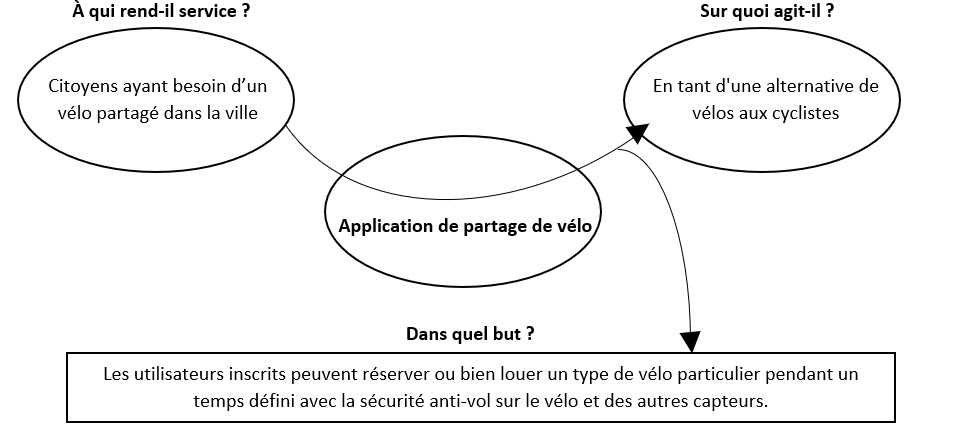
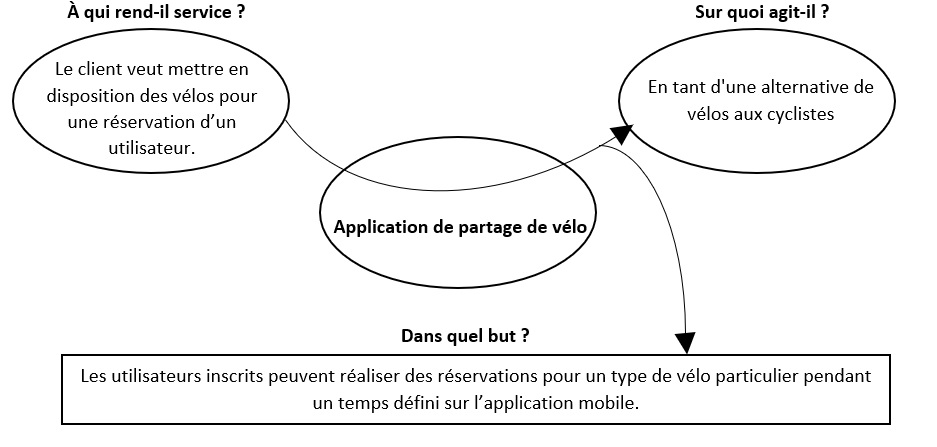
CDC Fonctionnel V3.0

diff --git a/cdc_fonctionnel.html b/cdc_fonctionnel.html
@@ -84,25 +84,19 @@
 			</div>
 			<ul class="list-group list-group-flush">
 				<li class="list-group-item">
-					<p>L’objectif de ce projet concerne au besoin du client, il cherche un système de partage de vélo,
-						dans lequel les utilisateurs inscrits peuvent réserver ou bien louer un type de vélo
-						particulier pendant un temps défini, ce temps doit être souligner sur l'application mobile de
-						l'utilisateur.</p>
-					<p> Il convient souligner que l’application permettra aux utilisateurs visualiser les
-						points d’accès de vélo disponibles dans la ville ainsi que les différents vélos à louer. De la
-						même
-						manière l’application disposera un système de sécurité pour le vélo, c'est-à-dire un système
-						anti-vol et enfin, des alerte en cas de
-						chutes lorsque le vélo est loué par un utilisateur, cette information sera stockée sur
-						l'application.</p>
-					<p>Malgré, à ce moment il n’y a pas dans la ville de Saint-Dié un système concret qui fournit la
-						besoin entièrement du
-						client et même dans les environs
-						pour remplir au besoin. Si bien, il existe actuellement quelques applications pour le
-						partage de vélos qui peuvent remplir la problèmatique, mais ils sont disponibles surtout dans
-						les grandes villes,
-						et qui seront détaillées au point suivant. Pour telle raison, une application mobile/ web seront
-						développés, capables de résoudre le problème.</p>
+					<p>L’objectif de ce projet concerne au besoin du client. Il veut mettre en disposition différentes
+						vélos sur un système capable de gérer une réservation. Les réservations seront réalisées pour
+						les utilisateurs inscrits sur l’application mobile, ils peuvent indiquer quel type de vélo et la
+						durée d'utilisation. Ce temps doit être souligner sur l'application mobile pour l'utilisateur.
+					</p>
+					<p> Il convient souligner que l’application permettra aux utilisateurs visualiser les points d’accès
+						de vélo disponibles dans la ville ainsi que les différents vélos à réserver. De la même manière
+						l’application disposera un système de sécurité pour le vélo, c'est-à-dire un système anti-vol.
+					</p>
+					<p>À ce moment, il existe plusieurs options pour réserver un vélo, mais ils se trouvent dans les
+						grandes villes métropolitaines. Dans la ville de Saint-Dié-des-Vosges, il y a seulement un
+						service pour le partage de vélo, mais il n’est pas disponible tout le temps. Pour telle raison,
+						une application mobile sera développée afin de résoudre le besoin de notre client. </p>
 				</li>
 			</ul>
 		</div>
@@ -123,14 +117,14 @@
 						et les
 						faiblesses de chacune. À ce jour, il existe certaines applications de partage de vélo, on
 						trouvera
-						ci-dessous quelques-unes avec une description détaillée avec leurs fonctionnements respectifs :
+						ci-dessous quelques-unes avec une description détaillée et fonctionnements respectifs :
 					</p>
 				</li>
 			</ul>
 		</div>
 		<br>
 		<!-- Applications pour l'étude concurrentielle  -->
-		<table class="table-responsive" style="text-align: center;">
+		<table class="table table-responsive table-striped" style="text-align: center;">
 			<thead class="bg-info text-white">
 				<tr>
 					<th scope="col">Application</th>
@@ -159,8 +153,8 @@
 					</td>
 					<td>• Les villes pionnières qui accueillent Match my Bike sont 7 (Berne, Bienne, Fribourg,
 						Thoune,
-						Lausanne, Genève et Yverdon). Donc, l’application seulement sert dans ces villes. <br>
-						• Il ne comprend que la partie sécurité (anti-vol) grâce à la localisation du vélo.
+						Lausanne, Genève et Yverdon). Donc, l’application seulement sert dans ces villes de la Suisse.
+						<br>
 					</td>
 					<td>Abonnement: 60 euros pour 12 mois.</td>
 				</tr>
@@ -170,14 +164,11 @@
 							src="https://www.velib-metropole.fr/assets/static_files/paris/images/logo_full.png"
 							style="width: 80px; height: 80px;"> </th>
 					<td>• Sur l’application on peut accéder aux vélos mécaniques de couleur verte et des vélos
-						électriques de couleur bleue pour se déplacer d’un point A à un point B.
+						électriques de couleur bleue pour se déplacer d’un point A à un point B.<br>
 						• Pour les usagers moins assidus, des pass 1 ou 7 jours sont mis à leur disposition.
 						• Vélib’ compte aujourd’hui avec 1300 stations et plus de 12 000 vélos en circulation.
 					</td>
-					<td>• L’application a une portée dans la ville de Paris. <br>
-						• Il ne comprend que la partie sécurité (anti-vol) grâce à la localisation du vélo et de la
-						même
-						manière parce que si on va utiliser un vélo il faut avoir la carta avec le code.
+					<td>• C’est une application qui concerne à la capitale française (Paris) et sa petite couronne.<br>
 					</td>
 					<td>• La souscription la plus onéreuse coûte 8,30 euros par mois, et vous donne accès
 						gratuitement à
@@ -220,17 +211,20 @@
 							France)</a><br><br><img
 							src="https://location-greenbike.com/wp-content/uploads/2017/11/logo-greenbike.png"
 							style="width: 85px; height: 50px;"></th>
-					<td>• Elle offre différents vélos, soit par la famille, petits et même des vélos
-						électriques.<br>
-						• L'application propose également un casque à l'utilisateur, un panier et spray
-						anti-crevaison. <br>
+					<td>• C’est une entreprise qui offre différents vélos pour la famille, les petits et même des vélos
+						électriques. <br>
+						• L'application propose louer un casque à 1€ ou bien une assurance de 3€ par jour.<br>
 						• Elle offre différents plans soit par jour, soit pour toute l’année. <br>
 						• Le point plus fort qui a le service: dispose d’une succursale dans la ville de
 						Saint-Dié-des-Vosges <a href="https://goo.gl/maps/BrZDdoS87TtpFVFR7">(Regarder la carte)</a>
 						dans laquelle on peut loeur des vélos à différents prix.
 					</td>
-					<td>• Si bien, le service inclus: Casque, Anti-vol, Spray anti-crevaison et Panier sur demande,
-						mais ils seront disponibles sous réserve de disponibilité.
+					<td>• Il n’est pas possible de faire des réservations pour Saint-Dié-des-Vosges depuis le site
+						web.<br><br>
+						• Elle ne dispose pas d’une application mobile. <br><br>
+						• En l’absence d’une app mobile ou d’un site web pour la succursale à Saint-Dié, les gens
+						doivent soit aller physiquement pour effectuer le processus soit entrer en contact avec leurs
+						réseaux sociaux comme Facebook, ce qui n’est pas pratique.
 					</td>
 					<td>L’application offre différents forfaits et prix en fonction du vélo.<br>
 						• <b><i>Manhattan 28'':</i></b> <br> 2h = <b>6€</b>, 4h = <b>10€</b>, 1 jour =
@@ -247,17 +241,16 @@
 		<ul class="list-group list-group-flush">
 			<li class="list-group-item">
 				<p>Nous pourrions continuer en analysant différentes applications de partage de vélo, mais comme nous
-					pouvons le
-					voir, la plupart des applications n’ont qu’une portée à l’intérieur d’une ville ou de certaines
-					parties
-					des
-					stations, de sorte qu’aucune ne peut satisfaire les besoins de notre client. En outre, ils ne
-					possèdent
-					qu’une partie des caractéristiques demandées par le client : anti-vol, si bien est une chose
-					important
-					mais il manque la partie en cas de chute. L'application la plus proche pour résoudre au besoin du
-					client
-					est Green Bike, disponible dans la ville mais sans complètement le faire.</p>
+					pouvons le voir, la plupart des applications n’ont qu’une portée à l’intérieur d’une ville ou de
+					certaines parties des stations, de sorte qu’aucune ne peut satisfaire les besoins de notre client.
+					Si bien, ils possèdent une caractéristique demandée par le client : anti-vol, mais ce n'est pas
+					possible de faire usage.<br><br>
+					Si bien, ils possèdent une caractéristique demandée par le client : l’anti-vol, mais ce n'est pas
+					possible de faire usage. L'application la plus proche pour résoudre au besoin du client est Green
+					Bike, disponible dans la ville de Saint-Dié, mais sans complètement le faire. La raison évidemment :
+					peu pratique, nous devons aller à l’entreprise pour réserver un vélo parce qu’elle n’a pas une
+					application mobile pour réaliser des réservations.
+				</p>
 			</li>
 		</ul>
 		<hr style="border: solid;">
@@ -310,52 +303,44 @@
 				</tr>
 				<tr>
 					<th scope="row">3</th>
-					<td>Création d'un espace partagé pour un vélo sur l'application.</td>
-					<td>Les utilisateurs qui sont propriétaires d'un vélo, ils pourront l'ajouter dans leur espace
-						partagé, il faut enregistrer le type de vélo, la date de disponibilité et la localisation du
-						vélo.</td>
+					<td>Gestion du profil de l'utilisateur.</td>
+					<td>Les utilisateurs pourront modifier leurs informations personelles sur l'application (nom,
+						prènom, date de naissance, adresse).</td>
 					<td>Élevée.</td>
 				</tr>
 				<tr>
 					<th scope="row">4</th>
-					<td>Gestion de espace partagé de vélo.</td>
-					<td>Les propriétaires peuvent gérer leurs vélos de partage, en modifiant le type de vélo, la date de
-						disponibilité et la localisation de vélo ainsi que l'élimination d'un vélo sur l'application.
+					<td>Réservation d'un vélo.</td>
+					<td>Les utilisateurs pourront demander un vélo disponible sur l'application. Ils devront enregistrer
+						le type de vélo, la durée (date de debut et de fin) et le paiement correspondant.
 					</td>
 					<td>Élevée.</td>
 				</tr>
 				<tr>
 					<th scope="row">5</th>
-					<td>Consultation de vélos partagés.</td>
-					<td>Les propriétaires peuvent consulter leurs vélos partagés, en regardant sur l'application une
-						liste avec le type du vélo, la date de l'utilisation et la localisation.</td>
+					<td>Modification d'une réservation.</td>
+					<td>Le système permettra aux utilisateurs de réaliser des modifications aux informations d'une
+						réservation.</td>
 					<td>Élevée.</td>
 				</tr>
 				<tr>
 					<th scope="row">6</th>
-					<td>Demande de vélo. </td>
-					<td>Les utilisateurs qui cherchent un vélo pourront le demander ou bien annuler la demande, en
-						indiquant le type de vélo, la date de début et de fin de l'utilisation et le point de la
-						localitation du vélo souhaité entre les vélos disponibles.</td>
+					<td>Annulation de vélos demandés.</td>
+					<td>Le système permettra aux utilisateurs de réaliser une annulation d'un vélo réservé précédemment
+						(à condition qu’il soit temps avant du jour).</td>
 					<td>Élevée.</td>
 				</tr>
 				<tr>
 					<th scope="row">7</th>
 					<td>Consultation de vélos demandés.</td>
 					<td>Les utilisateurs peuvent consulter les dernières vélos demandés , en regardant sur l'application
-						une liste avec le type du vélo, la durée de l'utilisation et la localisation. </td>
+						une liste avec le type du vélo et la durée de l'utilisation.</td>
 					<td>Élevée.</td>
 				</tr>
 				<tr>
 					<th scope="row">8</th>
-					<td>Gestion du profil de l'utilisateur.</td>
-					<td>Les utilisateurs pourront modifier leurs informations personelles sur l'application.</td>
-					<td>Élevée.</td>
-				</tr>
-				<tr>
-					<th scope="row">9</th>
-					<td>Affichage des alertes en cas de chute.</td>
-					<td>Les utilisateurs seront alertés en cas de chute du vélo à travers de l'application.</td>
+					<td>Protection d'un anti-vol.</td>
+					<td>Le système permettra d'utiliser le vélo une fois que la verification de la réservation et paiement soient validées.</td>
 					<td>Élevée.</td>
 				</tr>
 			</tbody>
@@ -420,8 +405,8 @@
 						chacune
 						des
 						étapes de l’achèvement du système. Un total de 14 semaines seront consacrées à cet
-						événement,'est-à-dire, un
-						total de 420 heures (5 jours par semaine avec une journée de 6 heures). Il est prévu un contrat
+						événement, c'est-à-dire, un
+						total de 350 heures (5 jours par semaine avec une journée de 5 heures). Il est prévu un contrat
 						d’un an,
 						qui
 						permettrait au client de la partie de maintenance pendant cette période.</p>
@@ -439,39 +424,39 @@
 				<tbody>
 					<tr>
 						<th scope="row">Conception</th>
-						<td>72</td>
-						<td>28.00 €</td>
-						<td>2016 €</td>
+						<td>70</td>
+						<td>25.00 €</td>
+						<td>1750 €</td>
 					</tr>
 					<tr>
 						<th scope="row">Développement</th>
-						<td>240</td>
-						<td>28.00 €</td>
-						<td>6720 €</td>
+						<td>210</td>
+						<td>25.00 €</td>
+						<td>5250 €</td>
 					</tr>
 					<tr>
 						<th scope="row">Test</th>
 						<td>30</td>
-						<td>28.00 €</td>
-						<td>840 €</td>
+						<td>25.00 €</td>
+						<td>750 €</td>
 					</tr>
 					<tr>
 						<th scope="row">Maintenance</th>
-						<td>42</td>
-						<td>28.00 €</td>
-						<td>1176 €</td>
+						<td>40</td>
+						<td>25.00 €</td>
+						<td>1000 €</td>
 					</tr>
 					<tr>
 						<th>TVA</th>
 						<td></td>
 						<td></td>
-						<th>2150€</th>
+						<th>1750 €</th>
 					</tr>
 					<tr>
-						<th></th>
+						<th>Total</th>
 						<td></td>
 						<td></td>
-						<th>12,902€</th>
+						<th>10,500 €</th>
 					</tr>
 				</tbody>
 			</table>
@@ -486,18 +471,19 @@
 			</div>
 			<ul class="list-group list-group-flush">
 				<li class="list-group-item">
-					<p>Tout d’abord, il est nécessaire de définir la structure du projet à réaliser, à partir de la
+					<p>Tout d’abord, il est nécessaire de définir la structure de notre projet à réaliser, à partir de la
 						méthodologie du logiciel comme les phases de celui-ci.
 						Pour ce faire, nous commencerons par la méthodologie à utiliser, qui est la méthodologie en
-						cascade. Le choix part du fait qu’une seule personne (votre serveur) travaille sur ce projet, 
-						c'est pour ca qu'on n'a pas choisi une méthodologie agile comme scrum, dans lequel les
+						cascade. Le choix part du fait qu’une seule personne (votre serveur) travaille sur ce projet,
+						c'est pour ça qu'on n'a pas choisi une méthodologie agile comme scrum, dans lequel les
 						tâches sont divisées pour les développeurs, des réunions avec le client ou des livraisons
 						partielles et régulières du produit final ne s’appliquent pas pour le projet. En revanche, avec
 						la méthode en cascade, on travaillera à chacune des phases et on devra conclure avec chacune
 						d’elles pour pouvoir avancer vers d’autres, permettant d’achever le projet à la date prévue pour
 						le client.
 					</p>
-					<img src="img/methodology-cascade.jpg" class="card-img-top" title="Méthodologie en cascade du projet">
+					<img src="img/methodology-cascade.jpg" class="card-img-top"
+						title="Méthodologie en cascade du projet">
 				</li>
 			</ul>
 		</div>
@@ -512,7 +498,7 @@
 			<ul class="list-group list-group-flush">
 				<li class="list-group-item">
 					<p>Comme j'ai mentionné dans le devis, on travaillera 5 jours par semaine avec une journée
-						de 6
+						de 5
 						heures. Nous avons un total de 70 jours de travail (5 jours par 14 semaines = 70 jours). L'image
 						suivante
 						montre le planning prévisionnel avec les étapes et leurs durées en jours : </p>
@@ -523,7 +509,7 @@
 		<div class="diagramme-gantt">
 			<img src="img/diagramme-gantt.jpg" alt="Planning prévisionnel">
 		</div>
-		
+
 		<!--BIBLIOGRAPHIE -->
 		<hr style="border: solid;">
 		<div class="card">
@@ -573,4 +559,5 @@
 <script src="https://stackpath.bootstrapcdn.com/bootstrap/4.1.3/js/bootstrap.min.js"
 	integrity="sha384-ChfqqxuZUCnJSK3+MXmPNIyE6ZbWh2IMqE241rYiqJxyMiZ6OW/JmZQ5stwEULTy"
 	crossorigin="anonymous"></script>
+
 </html>

diff --git a/index.html b/index.html
@@ -56,8 +56,7 @@
 		</div>
 		<ul class="list-group list-group-flush">
 			<li class="list-group-item">
-				<p>Concevoir une application de partage de vélo. Les utilisateurs inscrits peuvent réserver un type
-					de vélo particulier. Concevoir une application mobile qui donne l'alerte en cas de chute.</p>
+				<p>Concevoir une application mobile de partage de vélo. Les utilisateurs inscrits peuvent réserver un type de vélo particulier.</p>
 			</li>
 		</ul>
 	</div>
@@ -69,7 +68,7 @@
 		</div>
 		<ul class="list-group list-group-flush">
 			<li class="list-group-item">
-				<p>Réaliser un sytème de sécurité pour vélo, comprenant d'une détection de chute et un anti-vol.</p>
+				<p>Réaliser un système de sécurité pour le vélo qui comprend d'un anti-vol.</p>
 			</li>
 		</ul>
 	</div>
